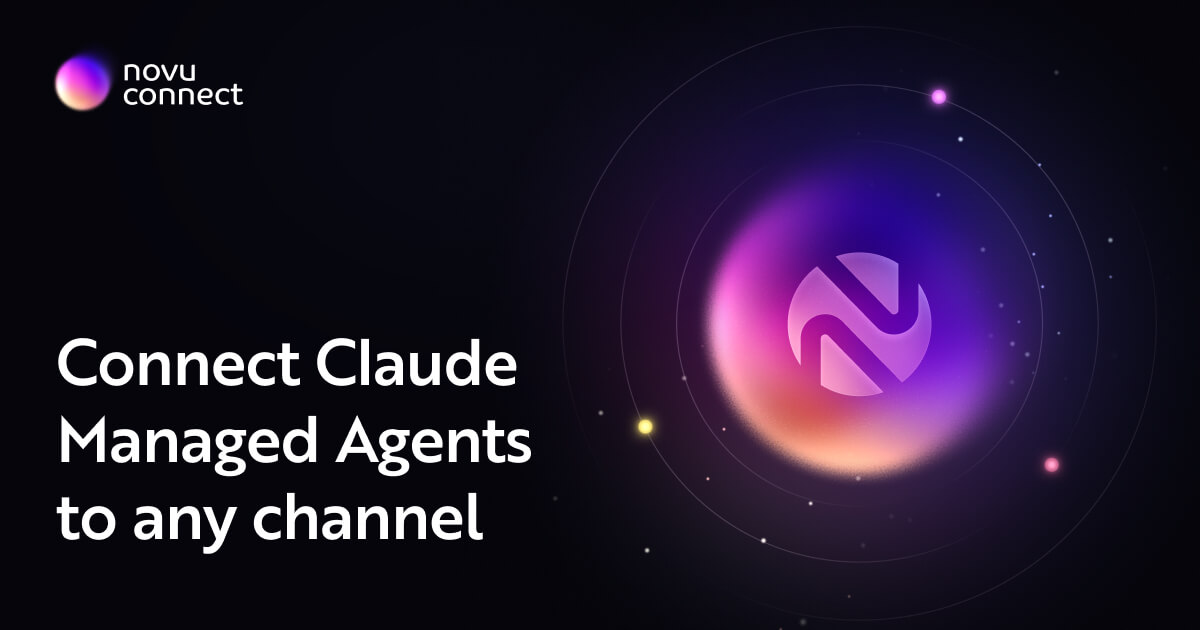
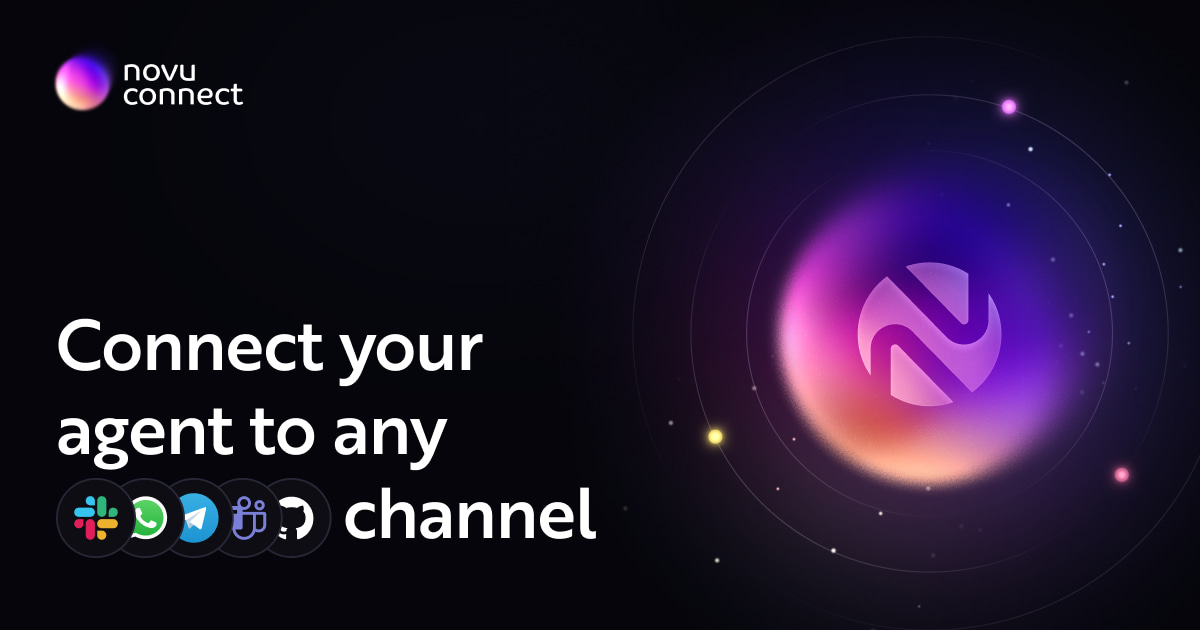
fix: add animated channel ticker to hero

diff --git a/src/components/pages/connect/hero.tsx b/src/components/pages/connect/hero.tsx
@@ -1,11 +1,99 @@
-import Image from "next/image"
-import claudeLogo from "@/svgs/pages/connect/hero/claude-logo.svg"
+import type { CSSProperties } from "react"
+import Image, { type StaticImageData } from "next/image"
+import emailLogo from "@/svgs/pages/connect/hero/email.svg"
+import slackLogo from "@/svgs/pages/connect/hero/slack.svg"
+import teamsLogo from "@/svgs/pages/connect/hero/teams.svg"
+import telegramLogo from "@/svgs/pages/connect/hero/telegram.svg"
+import whatsappLogo from "@/svgs/pages/connect/hero/whatsapp.svg"
 
 import ProductHuntBadge from "@/components/ui/product-hunt-badge"
 
 import ConnectHeroActions from "./hero-actions"
 import ConnectHeroVideo from "./hero-video"
 import ConnectPromptCopyLine from "./prompt-copy-line"
+
+type HeroChannel = {
+  name: string
+  icon: StaticImageData
+}
+
+const HERO_CHANNELS: HeroChannel[] = [
+  { name: "Slack", icon: slackLogo },
+  { name: "WhatsApp", icon: whatsappLogo },
+  { name: "MS Teams", icon: teamsLogo },
+  { name: "Telegram", icon: telegramLogo },
+  { name: "Email", icon: emailLogo },
+]
+
+const HERO_CHANNELS_LOOP = [...HERO_CHANNELS, HERO_CHANNELS[0]]
+
+const CHANNEL_TICKER_STYLE = {
+  "--connect-hero-channel-row-height": "1.45em",
+  height: "1lh",
+} as CSSProperties
+
+const CHANNEL_TICKER_KEYFRAMES = `
+@keyframes connect-hero-channel-scroll {
+  0%,
+  10% {
+    transform: translate3d(0, 0, 0);
+    animation-timing-function: cubic-bezier(0.55, 0, 0.85, 0.25);
+  }
+
+  15% {
+    transform: translate3d(0, calc(var(--connect-hero-channel-row-height) * -1.06), 0);
+    animation-timing-function: cubic-bezier(0.16, 1, 0.3, 1);
+  }
+
+  18%,
+  30% {
+    transform: translate3d(0, calc(var(--connect-hero-channel-row-height) * -1), 0);
+    animation-timing-function: cubic-bezier(0.55, 0, 0.85, 0.25);
+  }
+
+  35% {
+    transform: translate3d(0, calc(var(--connect-hero-channel-row-height) * -2.06), 0);
+    animation-timing-function: cubic-bezier(0.16, 1, 0.3, 1);
+  }
+
+  38%,
+  50% {
+    transform: translate3d(0, calc(var(--connect-hero-channel-row-height) * -2), 0);
+    animation-timing-function: cubic-bezier(0.55, 0, 0.85, 0.25);
+  }
+
+  55% {
+    transform: translate3d(0, calc(var(--connect-hero-channel-row-height) * -3.06), 0);
+    animation-timing-function: cubic-bezier(0.16, 1, 0.3, 1);
+  }
+
+  58%,
+  70% {
+    transform: translate3d(0, calc(var(--connect-hero-channel-row-height) * -3), 0);
+    animation-timing-function: cubic-bezier(0.55, 0, 0.85, 0.25);
+  }
+
+  75% {
+    transform: translate3d(0, calc(var(--connect-hero-channel-row-height) * -4.06), 0);
+    animation-timing-function: cubic-bezier(0.16, 1, 0.3, 1);
+  }
+
+  78%,
+  90% {
+    transform: translate3d(0, calc(var(--connect-hero-channel-row-height) * -4), 0);
+    animation-timing-function: cubic-bezier(0.55, 0, 0.85, 0.25);
+  }
+
+  95% {
+    transform: translate3d(0, calc(var(--connect-hero-channel-row-height) * -5.06), 0);
+    animation-timing-function: cubic-bezier(0.16, 1, 0.3, 1);
+  }
+
+  100% {
+    transform: translate3d(0, calc(var(--connect-hero-channel-row-height) * -5), 0);
+  }
+}
+`
 
 function Hero() {
   return (
@@ -26,24 +114,45 @@ function Hero() {
 
               <div className="flex w-full flex-col items-center gap-4 lg:items-start">
                 <h1
-                  className="w-full text-4xl leading-dense font-medium tracking-tighter text-foreground md:text-5xl lg:text-[2.75rem] xl:text-[3.25rem]"
-                  aria-label="Connect your Claude agent where your customers actually work"
+                  className="relative isolate w-full text-4xl leading-dense font-medium tracking-tighter text-foreground md:text-5xl lg:text-[2.75rem] xl:text-[3.25rem]"
+                  aria-label="Connect your agent to Slack, WhatsApp, MS Teams, Telegram, and Email"
                 >
-                  Connect{" "}
-                  <span className="whitespace-nowrap">
-                    <span aria-hidden>your</span>
-                    <Image
-                      className="mx-2 inline-block size-[0.923em] align-[-0.12em]"
-                      src={claudeLogo}
-                      alt=""
-                      width={48}
-                      height={48}
-                      priority
+                  <span className="relative z-10 block">Connect your</span>
+                  <span className="flex flex-col items-center justify-center gap-y-0 lg:flex-row lg:justify-start lg:gap-x-2">
+                    <span className="relative z-10 shrink-0">agent to</span>
+                    <span
+                      data-connect-hero-channel-ticker
+                      className="relative z-0 inline-block h-[1.125em] w-[6.4em] max-w-full text-center align-bottom lg:text-left"
+                      style={CHANNEL_TICKER_STYLE}
                       aria-hidden
-                    />
-                    <span aria-hidden>Claude</span>
-                  </span>{" "}
-                  agent where your customers actually work
+                    >
+                      <span className="absolute inset-x-0 top-1/2 h-[var(--connect-hero-channel-row-height)] -translate-y-1/2 overflow-hidden [mask-image:linear-gradient(to_bottom,transparent_0%,black_20%,black_88%,transparent_100%)] [mask-size:100%_100%] [mask-repeat:no-repeat] [-webkit-mask-image:linear-gradient(to_bottom,transparent_0%,black_20%,black_88%,transparent_100%)] [-webkit-mask-repeat:no-repeat] [-webkit-mask-size:100%_100%]">
+                        <span
+                          data-connect-hero-channel-track
+                          className="block will-change-transform motion-safe:animate-[connect-hero-channel-scroll_9s_linear_infinite] motion-reduce:will-change-auto"
+                        >
+                          {HERO_CHANNELS_LOOP.map((channel, index) => (
+                            <span
+                              data-connect-hero-channel-item
+                              className="flex h-[var(--connect-hero-channel-row-height)] items-center justify-center gap-2 whitespace-nowrap lg:justify-start"
+                              key={`${channel.name}-${index}`}
+                            >
+                              <Image
+                                className="size-[0.9em] shrink-0"
+                                src={channel.icon}
+                                alt=""
+                                width={68}
+                                height={68}
+                                loading="eager"
+                                aria-hidden
+                              />
+                              <span>{channel.name}</span>
+                            </span>
+                          ))}
+                        </span>
+                      </span>
+                    </span>
+                  </span>
                 </h1>
 
                 <p className="max-w-[523.4609375px] text-base leading-normal font-normal tracking-tighter text-pretty text-gray-8 md:text-lg">
@@ -69,6 +178,7 @@ function Hero() {
 
         <ConnectHeroVideo />
       </div>
+      <style>{CHANNEL_TICKER_KEYFRAMES}</style>
     </section>
   )
 }

diff --git a/src/constants/seo-data.ts b/src/constants/seo-data.ts
@@ -54,9 +54,9 @@ export const SEO_DATA = {
     pathname: ROUTE.integrationsChannels as string,
   },
   connect: {
-    title: `${config.projectName} Connect - Bring Claude Agents to Slack, Teams & Email`,
+    title: `${config.projectName} Connect - Connect Your Agent to Any Channel`,
     description:
-      "Connect Claude Managed Agents to Slack, Teams, WhatsApp, email, and more. Start from templates, reuse MCP tools, and launch in minutes with Novu.",
+      "Connect your agent to Slack, Teams, WhatsApp, Telegram, email, and more. Start from templates, reuse MCP tools, and launch in minutes with Novu.",
     imagePath: "/og-images/og-image-connect.jpg",
     imageAlt: `${config.projectName} Connect social preview`,
     pathname: ROUTE.connect as string,

diff --git a/src/lib/markdown/pages/connect.ts b/src/lib/markdown/pages/connect.ts
@@ -53,7 +53,7 @@ const HOW_IT_WORKS_STEPS = [
 
 const CLI_TERMINAL_COPY = [
   "Welcome to Novu Connect",
-  "Spin up an AI SDK Agent and connect it to Slack, Telegram, MS Team and more — all from your terminal",
+  "Spin up an AI SDK Agent and connect it to Slack, Telegram, MS Teams and more — all from your terminal",
   "Press Enter to sign in or create an account →",
   "System prompt",
   "You are a Pull Request review agent focused on analyzing code changes, identifying risks, and producing concise, actionable review output for...",
@@ -219,7 +219,7 @@ export async function getConnect(
   const body = [
     [
       "Novu connect",
-      "Connect your Claude agent where your customers actually work",
+      "Connect your agent to any channel",
       SEO_DATA.connect.description,
       formatCodeFence(CONNECT_COMMAND, "bash"),
       formatMarkdownLink("Sign Up", ROUTE.dashboardV2AgentsSignUp),